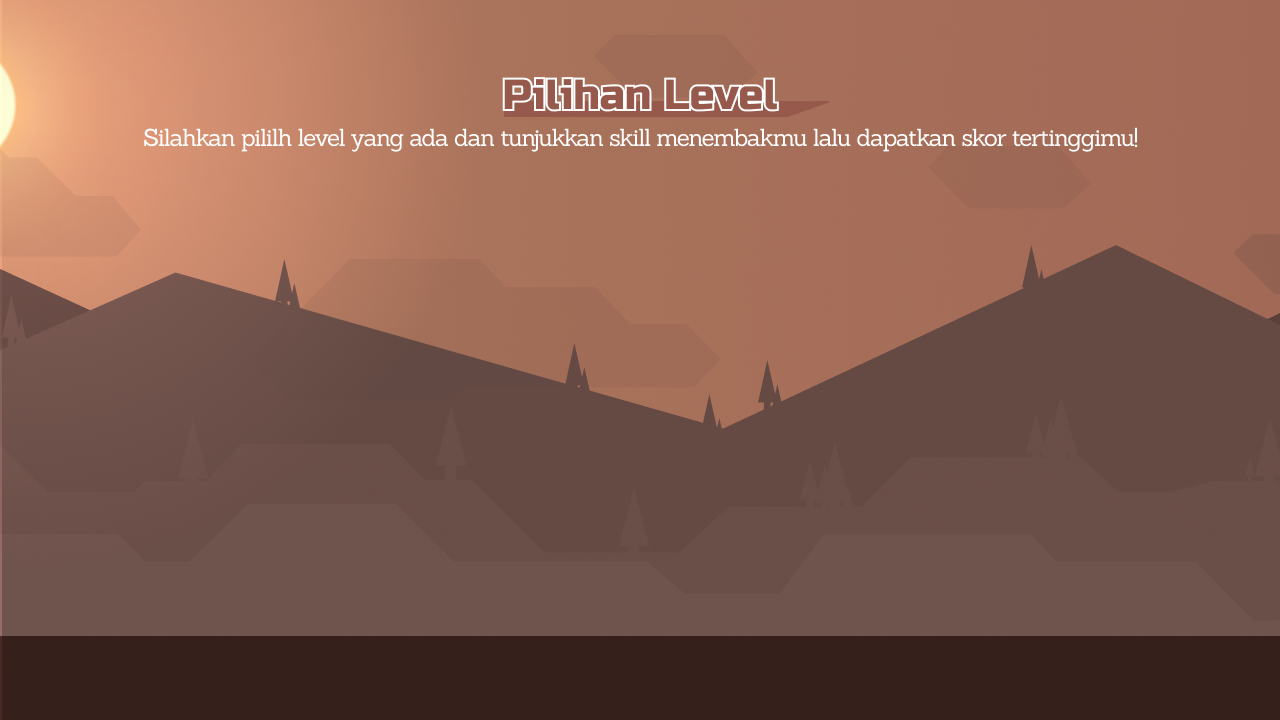
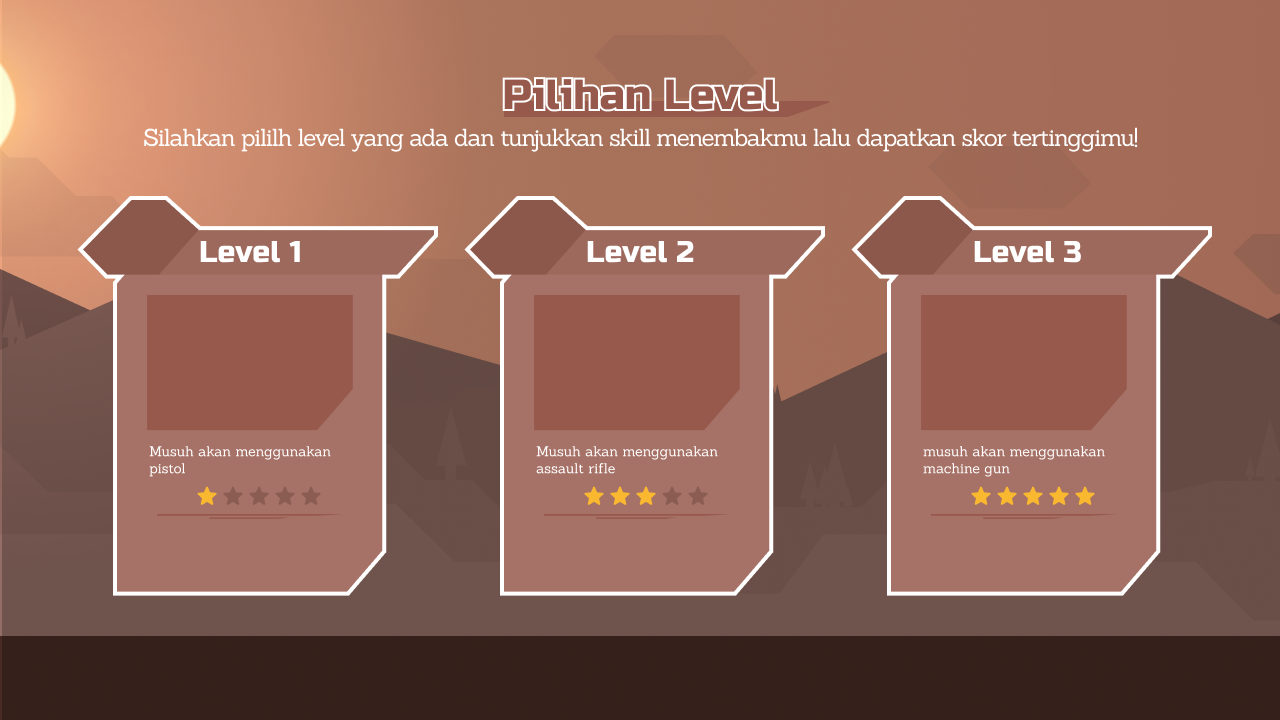
Level Page

Changed region(s): [[0.0625, 0.275, 0.9688, 0.825], [0.375, 0.3667, 0.625, 0.825]]

diff --git a/GamePlay/src/id/ac/its/trexucul/page/LevelPage.java b/GamePlay/src/id/ac/its/trexucul/page/LevelPage.java
@@ -1,5 +1,68 @@
 package id.ac.its.trexucul.page;
 
-public class LevelPage {
+import java.awt.Color;
+import java.awt.Graphics;
+import java.util.ArrayList;
+import id.ac.its.trexucul.components.CommonButton;
+import id.ac.its.trexucul.gfx.Assets;
+import id.ac.its.trexucul.main.Window;
+import id.ac.its.trexucul.util.ClickListener;
+import id.ac.its.trexucul.util.PageState;
 
+public class LevelPage extends PageState{
+	
+	private ArrayList<CommonButton> btns  = new ArrayList<CommonButton>();
+
+	public LevelPage(Window window) {
+		super(window);
+		
+		//mengubah ukuran tombol main
+		Assets.width = 113;
+		Assets.height = 43;
+		
+		//level 1
+		btns.add(new CommonButton("main_menu_btn", 194, 525, new ClickListener() {
+			@Override
+			public void onClick() {
+				// Level
+			}
+		}));
+		
+		//level 2
+		btns.add(new CommonButton("main_menu_btn", 581, 525, new ClickListener() {
+			@Override
+			public void onClick() {
+				// Level
+			}
+		}));
+		
+		//level 3
+		btns.add(new CommonButton("main_menu_btn", 968, 525, new ClickListener() {
+			@Override
+			public void onClick() {
+				// Level
+			}
+		}));
+		
+		//kembali
+		btns.add(new CommonButton("kembali", 11, 625, new ClickListener() {
+			@Override
+			public void onClick() {
+				PageState.currentState = window.getMenuPage();
+			}
+		}));
+	}
+
+	@Override
+	public void update() {
+		for(int i = 0; i < btns.size(); i++)
+			btns.get(i).update();
+	}
+
+	@Override
+	public void render(Graphics g) {
+		g.drawImage(Assets.levelBG, 0, 0, null);
+		for(int i = 0; i < btns.size(); i++)
+			btns.get(i).render(g);
+	}
 }

diff --git a/GamePlay/src/id/ac/its/trexucul/gfx/Assets.java b/GamePlay/src/id/ac/its/trexucul/gfx/Assets.java
@@ -11,13 +11,19 @@ import id.ac.its.trexucul.util.ImageLoader;
 public class Assets {
 	
 	public static Image menuBG;
+	public static Image levelBG;
+	
 	public static Image mainMenuBtn;
 	public static Image pengaturanMenuBtn;
 	public static Image mainMenuBtnHov;
 	public static Image pengaturanMenuBtnHov;
+	public static Image kembaliBtn;
+	public static int width = 250, height = 80;
 	
 	public static void init() {
 		menuBG = ImageLoader.loadImage("menu/menu_bg.png").getScaledInstance(Window.WIDTH, Window.HEIGHT, BufferedImage.SCALE_DEFAULT);
+		levelBG = ImageLoader.loadImage("menu/LevelPage.png").getScaledInstance(Window.WIDTH, Window.HEIGHT, BufferedImage.SCALE_DEFAULT);
+		
 //		mainMenuBtn = ImageLoader.loadImage("/menu/main_menu_btn.png");
 //		pengaturanMenuBtn = ImageLoader.loadImage("/menu/pengaturan_menu_btn.png");
 //		mainMenuBtnHov = ImageLoader.loadImage("/menu/main_menu_btn_hov.png");
@@ -25,6 +31,7 @@ public class Assets {
 	}
 	
 	public static Image getImageBtn(String imgName) {
-		return ImageLoader.loadImage("button/" + imgName).getScaledInstance(250, 80, BufferedImage.SCALE_DEFAULT);
+		return ImageLoader.loadImage("button/" + imgName).getScaledInstance(width, height, BufferedImage.SCALE_DEFAULT);
 	}
+	
 }

diff --git a/GamePlay/src/id/ac/its/trexucul/main/Window.java b/GamePlay/src/id/ac/its/trexucul/main/Window.java
@@ -39,6 +39,38 @@ public class Window extends JFrame implements Runnable {
 	private MenuPage menuPage;
 	private SplashPage splashPage;
 	
+	public GamePage getGamePage() {
+		return gamePage;
+	}
+
+	public void setGamePage(GamePage gamePage) {
+		this.gamePage = gamePage;
+	}
+
+	public LevelPage getLevelPage() {
+		return levelPage;
+	}
+
+	public void setLevelPage(LevelPage levelPage) {
+		this.levelPage = levelPage;
+	}
+
+	public MenuPage getMenuPage() {
+		return menuPage;
+	}
+
+	public void setMenuPage(MenuPage menuPage) {
+		this.menuPage = menuPage;
+	}
+
+	public SplashPage getSplashPage() {
+		return splashPage;
+	}
+
+	public void setSplashPage(SplashPage splashPage) {
+		this.splashPage = splashPage;
+	}
+
 	public Window(String title) {
 		setTitle(title);
 		setSize(WIDTH, HEIGHT);
@@ -94,7 +126,7 @@ public class Window extends JFrame implements Runnable {
 		gamePage = new GamePage();
 		menuPage = new MenuPage(this);
 		splashPage = new SplashPage();
-		levelPage = new LevelPage();
+		levelPage = new LevelPage(this);
 		PageState.currentState = menuPage;
 		Assets.init();
 	}

diff --git a/GamePlay/src/id/ac/its/trexucul/page/MenuPage.java b/GamePlay/src/id/ac/its/trexucul/page/MenuPage.java
@@ -14,13 +14,23 @@ public class MenuPage extends PageState {
 	private ArrayList<CommonButton> btns  = new ArrayList<CommonButton>();
 
 	public MenuPage(Window window) {
+		
 		super(window);
+		
+		//mengubah ukuran tombol main
+		Assets.width = 250;
+		Assets.height = 80;
+		
 		btns.add(new CommonButton("main_menu_btn", Window.WIDTH/2 - 125, Window.HEIGHT/2 - 50, new ClickListener() {
 			@Override
 			public void onClick() {
-				// Level
+				
+				// Level Page
+				PageState.currentState = window.getLevelPage();
+				
 			}
 		}));
+		
 		btns.add(new CommonButton("pengaturan_menu_btn", Window.WIDTH/2 - 125, Window.HEIGHT/2 + 50, new ClickListener() {
 			@Override
 			public void onClick() {

diff --git a/GamePlay/src/id/ac/its/trexucul/util/MouseHandler.java b/GamePlay/src/id/ac/its/trexucul/util/MouseHandler.java
@@ -15,13 +15,13 @@ public class MouseHandler extends MouseAdapter {
 		y = 0;
 	}
 
-	@Override
-	public void mouseClicked(MouseEvent e) {
-		if(e.getButton() == MouseEvent.BUTTON1)
-			leftBtn = true;
-		if(e.getButton() == MouseEvent.BUTTON2)
-			rightBtn= true;
-	}
+//	@Override
+//	public void mouseClicked(MouseEvent e) {
+//		if(e.getButton() == MouseEvent.BUTTON1)
+//			leftBtn = true;
+//		if(e.getButton() == MouseEvent.BUTTON2)
+//			rightBtn= true;
+//	}
 
 	@Override
 	public void mousePressed(MouseEvent e){

diff --git a/GamePlay/src/id/ac/its/trexucul/components/CommonButton.java b/GamePlay/src/id/ac/its/trexucul/components/CommonButton.java
@@ -9,14 +9,14 @@ import id.ac.its.trexucul.util.MouseHandler;
 
 public class CommonButton {
 	
-	private String btnName;
+	protected String btnName;
 	private int x, y;
 	private Rectangle bounds;
 	private boolean hovering;
 	private ClickListener click;
 	
-	private Image btn;
-	private Image btnHov;
+	protected Image btn;
+	protected Image btnHov;
 	
 	public CommonButton(String name, int x, int y, ClickListener click) {
 		this.btnName = name;
